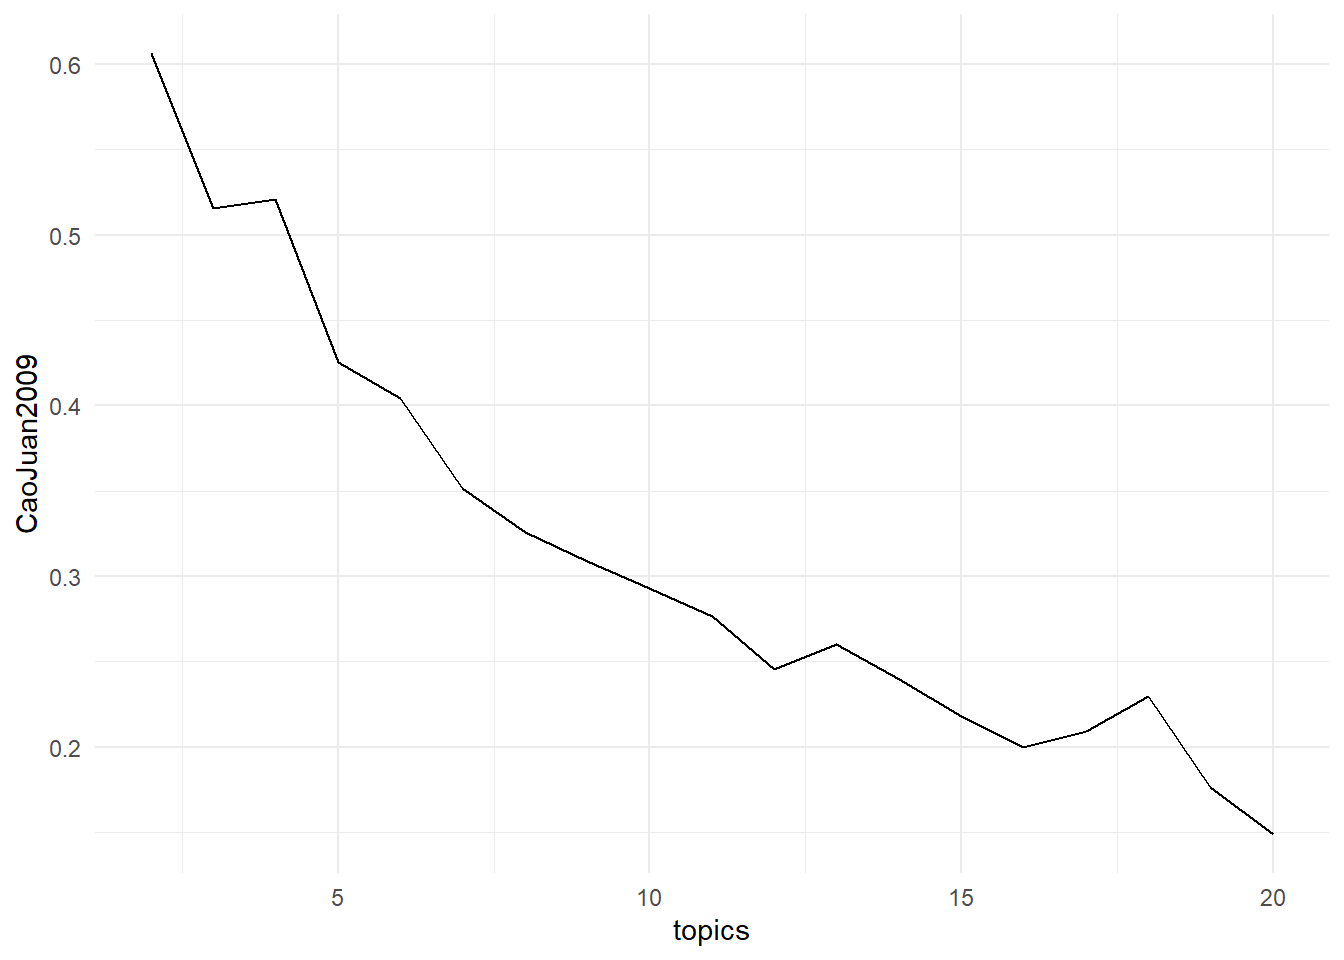
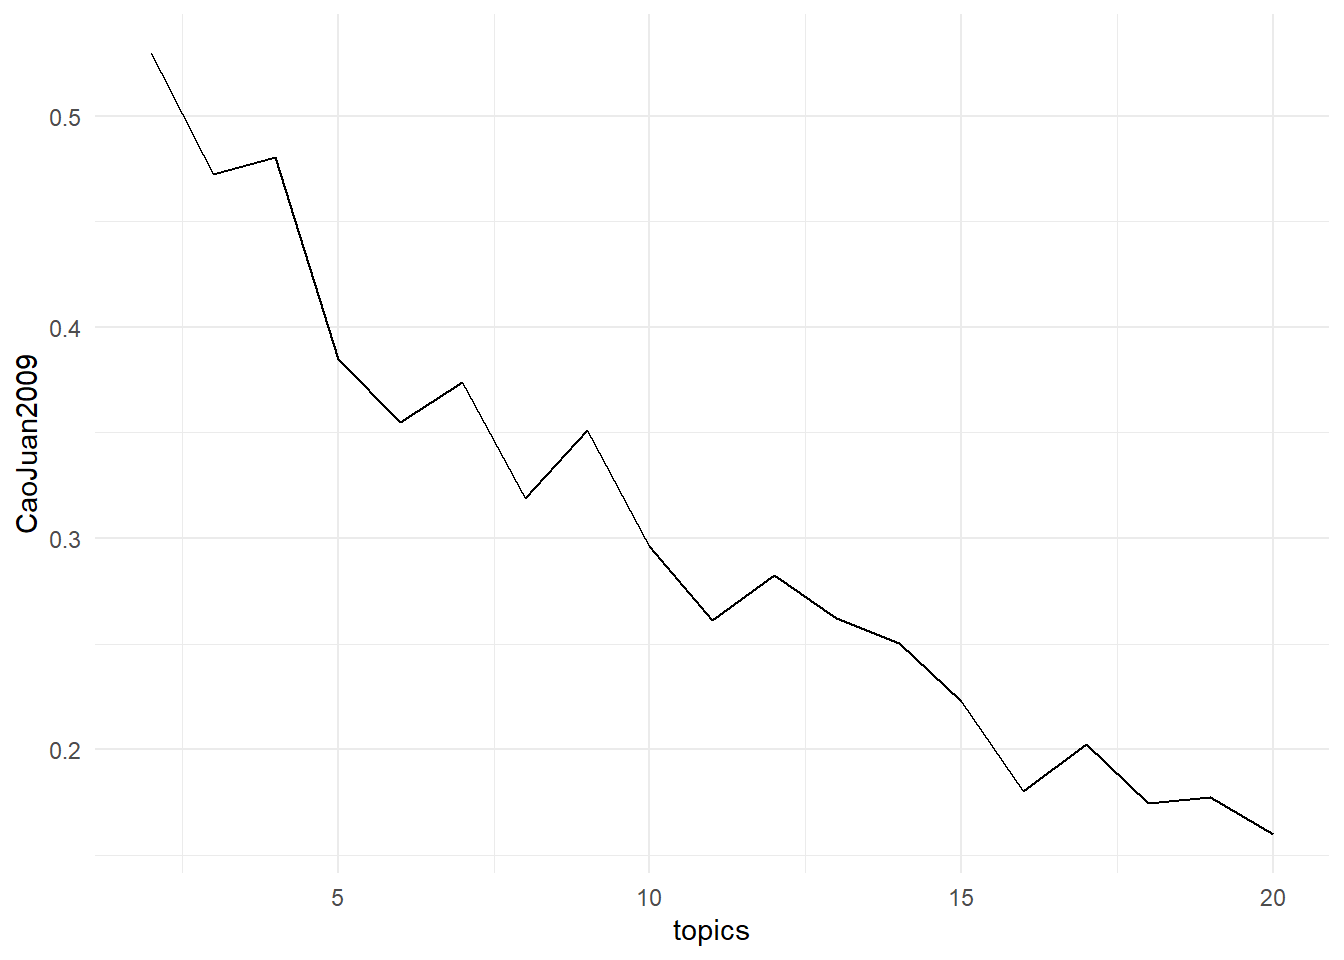
all change

diff --git a/docs/featured_projects/textAnalysis/index.html b/docs/featured_projects/textAnalysis/index.html
@@ -308,25 +308,25 @@ calculate metrics:
 <div class="sourceCode cell-code" id="cb7"><pre class="sourceCode r code-with-copy"><code class="sourceCode r"><span id="cb7-1"><a href="#cb7-1" aria-hidden="true" tabindex="-1"></a>results</span></code><button title="Copy to Clipboard" class="code-copy-button"><i class="bi"></i></button></pre></div>
 <div class="cell-output cell-output-stdout">
 <pre><code>   topics CaoJuan2009 Deveaud2014
-1      20   0.1486327    1.361997
-2      19   0.1765413    1.351798
-3      18   0.2298283    1.303989
-4      17   0.2094585    1.360924
-5      16   0.1998720    1.439359
-6      15   0.2180860    1.430264
-7      14   0.2395129    1.460962
-8      13   0.2600342    1.484027
-9      12   0.2454638    1.514429
-10     11   0.2767168    1.518469
-11     10   0.2929132    1.510840
-12      9   0.3091057    1.518692
-13      8   0.3256034    1.571507
-14      7   0.3514072    1.552705
-15      6   0.4046399    1.530601
-16      5   0.4257273    1.573238
-17      4   0.5210911    1.540322
-18      3   0.5156036    1.546364
-19      2   0.6064359    1.552225</code></pre>
+1      20   0.1596986    1.320655
+2      19   0.1775195    1.334099
+3      18   0.1747571    1.390217
+4      17   0.2022701    1.378618
+5      16   0.1800692    1.422958
+6      15   0.2226473    1.425408
+7      14   0.2504390    1.451944
+8      13   0.2622409    1.472574
+9      12   0.2824666    1.486554
+10     11   0.2613266    1.523801
+11     10   0.2963999    1.545635
+12      9   0.3510822    1.498035
+13      8   0.3190585    1.581972
+14      7   0.3736443    1.530868
+15      6   0.3548535    1.572332
+16      5   0.3847882    1.640628
+17      4   0.4804966    1.582470
+18      3   0.4725156    1.592691
+19      2   0.5295066    1.601935</code></pre>
 </div>
 </div>
 <div class="cell">
@@ -349,23 +349,23 @@ calculate metrics:
 <div class="sourceCode cell-code" id="cb11"><pre class="sourceCode r code-with-copy"><code class="sourceCode r"><span id="cb11-1"><a href="#cb11-1" aria-hidden="true" tabindex="-1"></a><span class="co"># Plot the top terms in each topic</span></span>
 <span id="cb11-2"><a href="#cb11-2" aria-hidden="true" tabindex="-1"></a><span class="fu">terms</span>(topicModel_k2, <span class="dv">10</span>) <span class="co"># Most probable words in each topic</span></span></code><button title="Copy to Clipboard" class="code-copy-button"><i class="bi"></i></button></pre></div>
 <div class="cell-output cell-output-stdout">
-<pre><code>      Topic 1  Topic 2        
- [1,] "bears"  "polar"        
- [2,] "polar"  "bear"         
- [3,] "ice"    "bears"        
- [4,] "land"   "arctic"       
- [5,] "energy" "international"
- [6,] "study"  "ice"          
- [7,] "said"   "day"          
- [8,] "sea"    "climate"      
- [9,] "time"   "wildlife"     
-[10,] "food"   "animals"      </code></pre>
+<pre><code>      Topic 1         Topic 2 
+ [1,] "polar"         "bears" 
+ [2,] "bear"          "polar" 
+ [3,] "bears"         "ice"   
+ [4,] "arctic"        "land"  
+ [5,] "climate"       "energy"
+ [6,] "said"          "study" 
+ [7,] "international" "said"  
+ [8,] "day"           "time"  
+ [9,] "sea"           "sea"   
+[10,] "animals"       "bear"  </code></pre>
 </div>
 <div class="sourceCode cell-code" id="cb13"><pre class="sourceCode r code-with-copy"><code class="sourceCode r"><span id="cb13-1"><a href="#cb13-1" aria-hidden="true" tabindex="-1"></a>tmResult <span class="ot">&lt;-</span> <span class="fu">posterior</span>(topicModel_k2)</span>
 <span id="cb13-2"><a href="#cb13-2" aria-hidden="true" tabindex="-1"></a><span class="fu">terms</span>(topicModel_k2)</span></code><button title="Copy to Clipboard" class="code-copy-button"><i class="bi"></i></button></pre></div>
 <div class="cell-output cell-output-stdout">
 <pre><code>Topic 1 Topic 2 
-"bears" "polar" </code></pre>
+"polar" "bears" </code></pre>
 </div>
 <div class="sourceCode cell-code" id="cb15"><pre class="sourceCode r code-with-copy"><code class="sourceCode r"><span id="cb15-1"><a href="#cb15-1" aria-hidden="true" tabindex="-1"></a>theta <span class="ot">&lt;-</span> tmResult<span class="sc">$</span>topics</span>
 <span id="cb15-2"><a href="#cb15-2" aria-hidden="true" tabindex="-1"></a>beta <span class="ot">&lt;-</span> tmResult<span class="sc">$</span>terms</span>
@@ -393,113 +393,103 @@ calculate metrics:
 <tbody>
 <tr class="odd">
 <td style="text-align: right;">1</td>
-<td style="text-align: left;">bears</td>
-<td style="text-align: right;">0.0562347</td>
-</tr>
-<tr class="even">
-<td style="text-align: right;">1</td>
 <td style="text-align: left;">polar</td>
-<td style="text-align: right;">0.0299232</td>
-</tr>
-<tr class="odd">
-<td style="text-align: right;">1</td>
-<td style="text-align: left;">ice</td>
-<td style="text-align: right;">0.0181326</td>
+<td style="text-align: right;">0.0570063</td>
 </tr>
 <tr class="even">
 <td style="text-align: right;">1</td>
-<td style="text-align: left;">land</td>
-<td style="text-align: right;">0.0168915</td>
+<td style="text-align: left;">bear</td>
+<td style="text-align: right;">0.0386336</td>
 </tr>
 <tr class="odd">
 <td style="text-align: right;">1</td>
-<td style="text-align: left;">energy</td>
-<td style="text-align: right;">0.0145334</td>
+<td style="text-align: left;">bears</td>
+<td style="text-align: right;">0.0267254</td>
 </tr>
 <tr class="even">
 <td style="text-align: right;">1</td>
-<td style="text-align: left;">study</td>
-<td style="text-align: right;">0.0144093</td>
+<td style="text-align: left;">arctic</td>
+<td style="text-align: right;">0.0127758</td>
 </tr>
 <tr class="odd">
+<td style="text-align: right;">1</td>
+<td style="text-align: left;">climate</td>
+<td style="text-align: right;">0.0100539</td>
+</tr>
+<tr class="even">
 <td style="text-align: right;">1</td>
 <td style="text-align: left;">said</td>
-<td style="text-align: right;">0.0134164</td>
+<td style="text-align: right;">0.0100539</td>
+</tr>
+<tr class="odd">
+<td style="text-align: right;">1</td>
+<td style="text-align: left;">international</td>
+<td style="text-align: right;">0.0100539</td>
 </tr>
 <tr class="even">
+<td style="text-align: right;">1</td>
+<td style="text-align: left;">day</td>
+<td style="text-align: right;">0.0092033</td>
+</tr>
+<tr class="odd">
 <td style="text-align: right;">1</td>
 <td style="text-align: left;">sea</td>
-<td style="text-align: right;">0.0095690</td>
-</tr>
-<tr class="odd">
-<td style="text-align: right;">1</td>
-<td style="text-align: left;">time</td>
-<td style="text-align: right;">0.0094449</td>
+<td style="text-align: right;">0.0086930</td>
 </tr>
 <tr class="even">
 <td style="text-align: right;">1</td>
-<td style="text-align: left;">food</td>
-<td style="text-align: right;">0.0082037</td>
+<td style="text-align: left;">animals</td>
+<td style="text-align: right;">0.0085229</td>
 </tr>
 <tr class="odd">
-<td style="text-align: right;">1</td>
-<td style="text-align: left;">seals</td>
-<td style="text-align: right;">0.0082037</td>
+<td style="text-align: right;">2</td>
+<td style="text-align: left;">bears</td>
+<td style="text-align: right;">0.0570634</td>
 </tr>
 <tr class="even">
 <td style="text-align: right;">2</td>
 <td style="text-align: left;">polar</td>
-<td style="text-align: right;">0.0652766</td>
-</tr>
-<tr class="odd">
-<td style="text-align: right;">2</td>
-<td style="text-align: left;">bear</td>
-<td style="text-align: right;">0.0429250</td>
-</tr>
-<tr class="even">
-<td style="text-align: right;">2</td>
-<td style="text-align: left;">bears</td>
-<td style="text-align: right;">0.0290572</td>
-</tr>
-<tr class="odd">
-<td style="text-align: right;">2</td>
-<td style="text-align: left;">arctic</td>
-<td style="text-align: right;">0.0140473</td>
-</tr>
-<tr class="even">
-<td style="text-align: right;">2</td>
-<td style="text-align: left;">international</td>
-<td style="text-align: right;">0.0096422</td>
+<td style="text-align: right;">0.0368427</td>
 </tr>
 <tr class="odd">
 <td style="text-align: right;">2</td>
 <td style="text-align: left;">ice</td>
-<td style="text-align: right;">0.0093159</td>
+<td style="text-align: right;">0.0220382</td>
 </tr>
 <tr class="even">
 <td style="text-align: right;">2</td>
-<td style="text-align: left;">day</td>
-<td style="text-align: right;">0.0088265</td>
+<td style="text-align: left;">land</td>
+<td style="text-align: right;">0.0163812</td>
 </tr>
 <tr class="odd">
 <td style="text-align: right;">2</td>
-<td style="text-align: left;">climate</td>
-<td style="text-align: right;">0.0081739</td>
+<td style="text-align: left;">energy</td>
+<td style="text-align: right;">0.0140943</td>
 </tr>
 <tr class="even">
 <td style="text-align: right;">2</td>
-<td style="text-align: left;">wildlife</td>
-<td style="text-align: right;">0.0081739</td>
+<td style="text-align: left;">study</td>
+<td style="text-align: right;">0.0139740</td>
 </tr>
 <tr class="odd">
 <td style="text-align: right;">2</td>
-<td style="text-align: left;">animals</td>
-<td style="text-align: right;">0.0081739</td>
+<td style="text-align: left;">said</td>
+<td style="text-align: right;">0.0094002</td>
 </tr>
 <tr class="even">
+<td style="text-align: right;">2</td>
+<td style="text-align: left;">time</td>
+<td style="text-align: right;">0.0091595</td>
+</tr>
+<tr class="odd">
 <td style="text-align: right;">2</td>
 <td style="text-align: left;">sea</td>
-<td style="text-align: right;">0.0081739</td>
+<td style="text-align: right;">0.0091595</td>
+</tr>
+<tr class="even">
+<td style="text-align: right;">2</td>
+<td style="text-align: left;">bear</td>
+<td style="text-align: right;">0.0084373</td>
 </tr>
 </tbody>
 </table>

diff --git a/docs/featured_projects.html b/docs/featured_projects.html
@@ -246,9 +246,9 @@ Sujan Bhattarai
 </a>
 </div>
 </div>
-<div class="quarto-post image-right" data-index="2" data-categories="NLP,R" data-listing-file-modified-sort="1720920430522" data-listing-reading-time-sort="9">
+<div class="quarto-post image-right" data-index="2" data-categories="NLP,R" data-listing-file-modified-sort="1720920616228" data-listing-reading-time-sort="9">
 <div class="thumbnail">
-<p><a href="./featured_projects/textAnalysis/index.html"> <img src="./featured_projects/textanalysis/paper.jpg" class="thumbnail-image"> </a></p>
+<p><a href="./featured_projects/textAnalysis/index.html"> <img src="./featured_projects/textAnalysis/image.jpg" class="thumbnail-image"> </a></p>
 </div>
 <div class="body">
 <a href="./featured_projects/textAnalysis/index.html">
